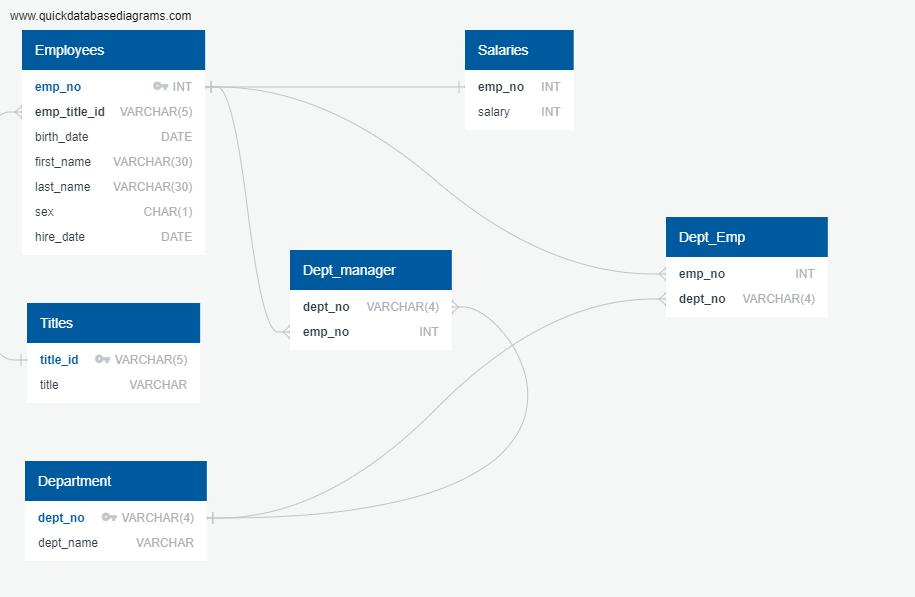
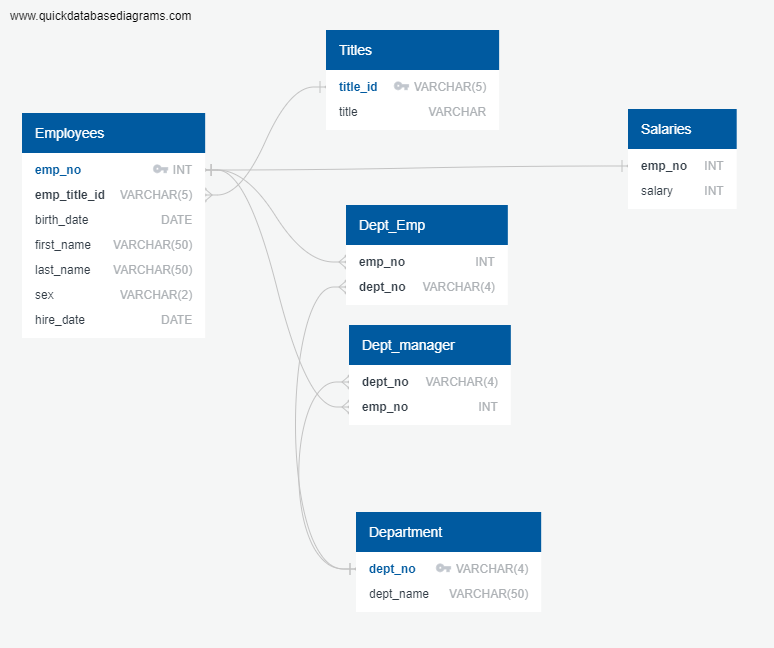
Updated ERD and the DDL script

diff --git a/README.md b/README.md
@@ -1,2 +1,30 @@
-# sql-challenge
-UCB Module 9 challenge
+# SQL-Challenge
+Module 9 SQL challenge of the UCB Data Analytics & Vizualization Bootcamp. The objective of this exercise is to do a research project about people whom a ficticious company employed during the 1980s and 1990s. All that remains of the employee database from that period are six CSV files.
+
+## Data Modeling
+The EmployeeDepartment.png in the EmployeeSQL folder shows the entity relationship diagram of employees, departments, employees in each department and the department managers, in addition, the diagram also shows the relationship with employees and their title and salaries.
+
+## Data Engineering
+The EmployeeDeptDDL.sql script defines the table structure for the entities defined i.e. deparments, employees, dept_emp, dept_manager, salaries, and titles. The script does the following - 
+Drops the tables if they exists
+Creates the tables with the primary keys
+The recommended next step is to import data from the csv's via pgadmin and verify the import.
+Finally, it runs ALTER TABLE scripts to add the foreign ket constraints on the tables.
+
+## Data Analysis
+The EmployeeDeptQuestions.sql has the SQL scripts performs the following analysis:
+1. Employee number, last name, first name, sex, and salary of each employee.
+
+2. First name, last name, and hire date for the employees who were hired in 1986.
+
+3. Manager of each department along with their department number, department name, employee number, last name, and first name.
+
+4. Department number for each employee along with that employee’s employee number, last name, first name, and department name.
+
+5. First name, last name, and sex of each employee whose first name is Hercules and whose last name begins with the letter B.
+
+6. Employee in the Sales department, including their employee number, last name, and first name.
+
+7. Each employee in the Sales and Development departments, including their employee number, last name, first name, and department name.
+
+8. Frequency counts, in descending order, of all the employee last names (that is, how many employees share each last name).
